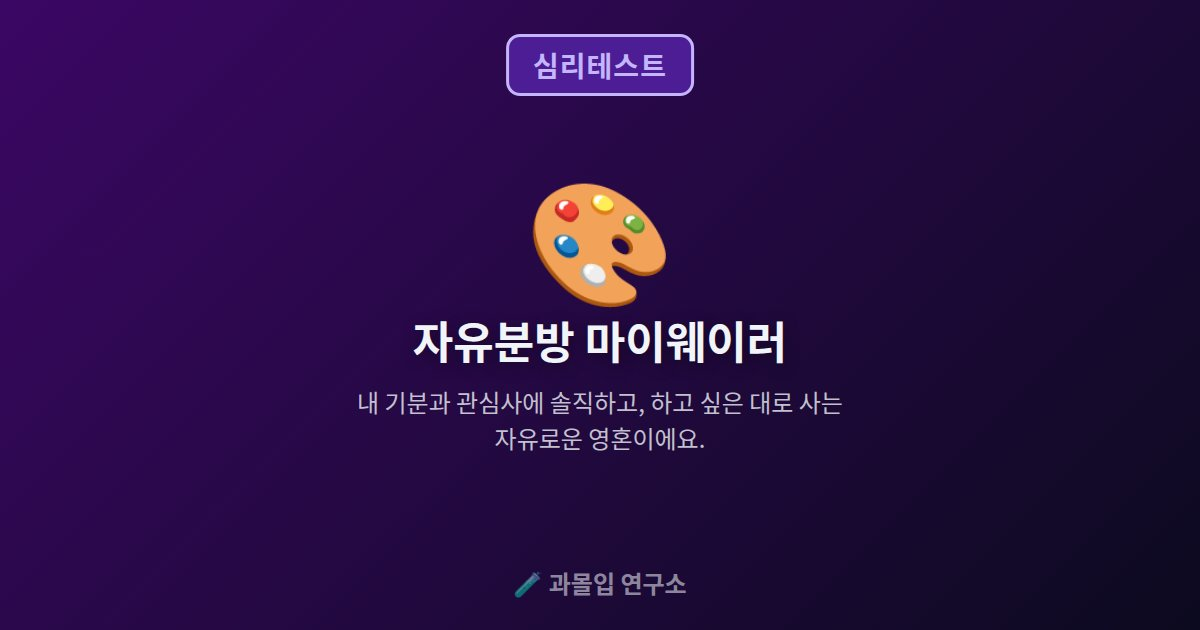
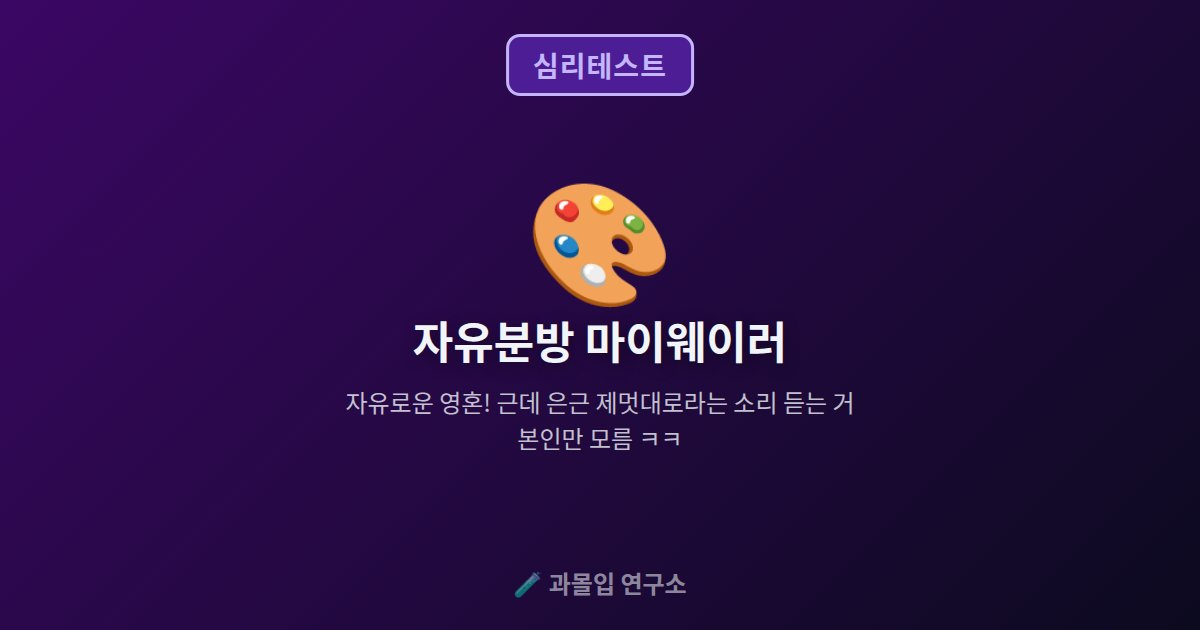
feat: 밸런스게임/국민테스트 콘텐츠 확장 — 어그로/댓글논쟁형으로 디벨롭 (v0.3.1)
밸런스게임 1개(가짜 잠금 2개)→6개, 국민테스트 1개→3개 전부 실플레이 가능하게 확장.
전애인 SNS/데이트비용/워라밸/축의금/딩크족 등 실제 논쟁형 밸런스게임과
민초vs반민초/부먹vs찍먹 등 국민 논쟁 소재 신규 작성, 혈액형 테스트 톤도
티키타카+댓글유도형으로 재작성. 카테고리당 1개만 보여주던 렌더링 로직을
전체 순회로 변경하고 공유 이미지 신규 생성.

Changed region(s): [[0.2775, 0.6032, 0.7092, 0.7238]]

diff --git a/data.js b/data.js
@@ -4433,7 +4433,7 @@ window.AppData = {
       emoji: "🩸",
       estMinutes: 1,
       tags: ["국민테스트", "혈액형", "MBTI 원조격"],
-      hook: "MBTI 유행 전에는 다들 이걸로 성격 얘기했다는 전설의 그 테스트 🩸 내 혈액형, 성격이 진짜 맞는지 확인해봐",
+      hook: "MBTI 유행 전에는 다들 이걸로 성격 얘기했다는 전설의 그 테스트 🩸 과학적 근거는 1도 없는데 이상하게 계속 맞아떨어진다는 국룰, 당신 혈액형 진짜 이 성격 맞아?",
       questions: [
         { q: "당신의 혈액형은?", options: [["A형", 0], ["B형", 1], ["O형", 2], ["AB형", 3]] }
       ],
@@ -4441,30 +4441,122 @@ window.AppData = {
         {
           grade: "A", range: [0, 0],
           emoji: "📋", title: "완벽주의 계획러",
-          desc: "섬세하고 신중해서 뭐든 완벽하게 해내야 직성이 풀리는 타입이에요.",
-          detail: "A형은 계획 없이 움직이는 걸 불안해하고, 맡은 일은 끝까지 책임지는 성실함이 강점이에요. 다만 스스로에게 너무 엄격해지지 않는 것도 중요해요.",
-          tips: ["가끔은 대충 넘어가도 괜찮다는 걸 스스로에게 알려주세요", "꼼꼼함은 최고의 신뢰 자산이에요", "완벽하지 않아도 이미 충분히 잘하고 있어요"]
+          desc: "계획 없이는 못 사는 타입! 근데 은근 뒤에서 다 계산하고 있는 거 국룰이잖아 ㅋㅋ",
+          detail: "A형은 매사에 신중하고 완벽을 추구하느라 스스로를 극한으로 몰아붙이는 편이에요. 겉으론 여유로워 보여도 속으로는 이미 시뮬레이션 10번은 돌렸을 타입이죠. 근데 이 성격, 진짜 A형만의 특징 맞아요 아니면 그냥 개인 성격 탓일까요?",
+          tips: ["완벽 안 해도 이미 잘하고 있다는 거 알아두기", "가끔은 계획 없는 무계획 여행도 추천", "당신 주변 A형은 진짜 이래요? 댓글로 검증하고 가기 👀"]
         },
         {
           grade: "B", range: [1, 1],
           emoji: "🎨", title: "자유분방 마이웨이러",
-          desc: "내 기분과 관심사에 솔직하고, 하고 싶은 대로 사는 자유로운 영혼이에요.",
-          detail: "B형은 틀에 얽매이지 않고 자기만의 방식을 밀고 나가는 힘이 있어요. 예측 불가능한 매력으로 주변을 심심하지 않게 만드는 타입입니다.",
-          tips: ["자유로움은 당신의 매력, 눈치 보지 말고 계속 밀고 나가세요", "가끔은 상대의 페이스도 한 번씩 맞춰보세요", "즉흥적인 아이디어를 실행하는 힘을 살려보세요"]
+          desc: "자유로운 영혼! 근데 은근 제멋대로라는 소리 듣는 거 본인만 모름 ㅋㅋ",
+          detail: "B형은 자기 확신이 강하고 하고 싶은 대로 밀어붙이는 힘이 있어요. 예측 불가능해서 주변을 심심하지 않게 만들지만, 가끔은 그 자유분방함이 '내 맘대로'로 보일 때도 있다는 거... 인정하시나요?",
+          tips: ["자유로움은 매력, 근데 가끔은 남 얘기도 들어보기", "예측불가 매력 계속 밀고 나가도 좋음", "B형은 다 이렇다는 거 진짜? 댓글에서 반박 시작 ㄱㄱ"]
         },
         {
           grade: "C", range: [2, 2],
           emoji: "☀", title: "타고난 분위기 메이커",
-          desc: "어디서든 리더십을 발휘하고 사람들과 잘 어울리는 사교왕 타입이에요.",
-          detail: "O형은 목표 지향적이고 사람을 이끄는 힘이 자연스럽게 나와요. 주변에 사람이 끊이지 않는 인맥 부자일 가능성이 높습니다.",
-          tips: ["당신의 리더십은 팀 전체의 자산이에요", "가끔은 한 발 물러서서 다른 사람 얘기도 들어보세요", "넓은 인맥을 깊은 관계로 발전시켜보는 것도 좋아요"]
+          desc: "타고난 인싸 리더! 근데 은근 승부욕 쩐다는 소리 듣는 거 알죠?",
+          detail: "O형은 목표지향적이고 사람을 이끄는 힘이 자연스럽게 나와요. 주변에 늘 사람이 많고 분위기 메이커 역할을 도맡아 하지만, 승부욕이 은근 강해서 지는 걸 못 참는다는 얘기도 많죠.",
+          tips: ["리더십은 무기, 가끔은 한발 물러서기도 필요", "승부욕은 좋은데 즐기면서 하기", "O형=인싸 국룰 진짜 맞아? 댓글로 인증하고 가기"]
         },
         {
           grade: "D", range: [3, 3],
           emoji: "🌌", title: "4차원 천재형",
-          desc: "남들과 다른 시선으로 세상을 보는, 예측불가 매력의 소유자예요.",
-          detail: "AB형은 이성과 감성을 오가는 독특한 사고방식을 가져서 종종 '4차원'이라는 소리를 들어요. 창의적인 아이디어가 필요한 순간에 진가를 발휘하는 타입입니다.",
-          tips: ["독특한 발상은 당신만의 강점, 자신 있게 표현해보세요", "가끔 오해받을 땐 설명을 조금 더 덧붙여보세요", "혼자만의 세계와 사람들과의 교류, 둘 다 챙겨보세요"]
+          desc: "4차원 그 자체! 근데 은근 그게 매력이라는 거 본인도 알죠?",
+          detail: "AB형은 이성과 감성을 넘나드는 독특한 사고방식 때문에 종종 '4차원'이란 소리를 들어요. 남들과 다른 시선이 가끔 오해를 사기도 하지만, 그 독특함이 결정적인 순간엔 최고의 무기가 되죠.",
+          tips: ["독특한 발상, 자신 있게 표현해도 됨", "오해받을 땐 설명 조금 더 붙이기", "AB형=4차원 국룰, 진짜인지 댓글로 검증하고 가기"]
+        }
+      ]
+    },
+    {
+      id: "mintchoco",
+      category: "national",
+      title: "민초 vs 반민초 테스트",
+      emoji: "🍫",
+      estMinutes: 1,
+      tags: ["국민테스트", "민트초코", "국룰논쟁"],
+      hook: "민초냐 반민초냐, 이거 하나로 밥친구 손절했다는 썰까지 있는 그 전설의 국민 논쟁 🍫🌿 너는 어느 진영이야? 5문항으로 소속과 강도까지 측정 가자",
+      questions: [
+        { q: "치약 맛 아이스크림이라는 소리 들으면?", options: [["오히려 좋아, 그 청량함이 매력임", 0], ["호불호는 이해하지만 나는 좋아함", 1], ["그니까 그게 문제라는 거임", 2]] },
+        { q: "카페 메뉴에 민트초코 라떼가 있으면?", options: [["무조건 시킨다", 0], ["다른 메뉴 없으면 시킨다", 1], ["시키느니 아메리카노 마신다", 2]] },
+        { q: "민초 싫어하는 사람을 보면 드는 생각은?", options: [["이해가 안 됨, 취향 존중은 하지만 아쉬움", 0], ["그럴 수도 있지, 사람마다 다르니까", 1], ["당연하지, 나도 그쪽임 ㅋㅋ", 2]] },
+        { q: "치약으로 양치할 때 드는 생각은?", options: [["이 맛이 은근 좋다", 0], ["그냥 씻는 용도로만 생각한다", 1], ["이 맛 진짜 별로다, 반민초인 이유 중 하나", 2]] },
+        { q: "친구가 민초 아이스크림을 나눠준다면?", options: [["신나서 받아먹는다", 0], ["예의상 한 입만 먹어본다", 1], ["정중히 거절한다", 2]] }
+      ],
+      results: [
+        {
+          grade: "A", range: [0, 2],
+          emoji: "🍫", title: "찐민초 전도사",
+          desc: "민트초코계의 선교사! 반민초를 개종시키는 게 삶의 낙인 타입이에요.",
+          detail: "민초 얘기만 나오면 눈이 반짝이는 진성 민초파예요. 치약맛이라는 놀림에도 흔들리지 않고, 오히려 그 청량함을 전도하려는 사명감까지 있는 타입이죠.",
+          tips: ["반민초 친구한테 한 입만 강요는 금물, 존중은 필수", "민초 신메뉴 나오면 제일 먼저 시식하는 편일 듯", "당신 진짜 민초파 맞아요? 댓글에서 반민초파랑 붙어보기 🍫🌿"]
+        },
+        {
+          grade: "B", range: [3, 5],
+          emoji: "🍧", title: "민초 온건파",
+          desc: "민초는 좋아하지만 광신도까지는 아닌, 평화로운 민초파예요.",
+          detail: "민초를 즐기긴 하지만 남에게 강요하진 않는 온건한 타입이에요. 반민초파와도 웃으면서 대화가 가능한, 국민 논쟁계의 평화주의자죠.",
+          tips: ["가끔은 확실하게 민초파라고 선언해도 괜찮아요", "온건함이 매력이지만 취향은 당당하게 표현하기", "당신은 어느 쪽에 가까운지 댓글로 투표하고 가기"]
+        },
+        {
+          grade: "C", range: [6, 7],
+          emoji: "🍪", title: "반민초 온건파",
+          desc: "민초는 안 땡기지만 굳이 싸우고 싶지도 않은 조용한 반민초파예요.",
+          detail: "치약 맛 논란에는 은근히 공감하지만, 굳이 나서서 민초파를 공격하진 않는 평화로운 타입이에요. 초코 자체는 좋아하지만 민트만 안 맞는 케이스가 많죠.",
+          tips: ["민초 없는 초코 디저트로도 충분히 행복할 수 있어요", "굳이 논쟁에 참전 안 해도 이미 반민초 인정받는 중", "당신의 진짜 강도, 댓글로 인증하고 가기"]
+        },
+        {
+          grade: "D", range: [8, 10],
+          emoji: "⚔", title: "반민초 전투종족",
+          desc: "민초 얘기만 나오면 참전하는 진성 반민초 전사! 치약맛 반박은 못 참죠.",
+          detail: "민트초코를 향한 저항 정신이 투철한 타입이에요. 민초파의 '청량하다'는 말에 절대 동의 못하고, 치약 비유는 진리라고 믿는 전투력 만렙 반민초파죠.",
+          tips: ["논쟁은 즐기되 사이는 좋게, 결국 취향 차이일 뿐", "가끔은 못 이기는 척 한 입 정도는 시도해봐도 재밌어요", "찐 반민초 인정? 댓글에서 민초파랑 끝장 토론 가자 ⚔"]
+        }
+      ]
+    },
+    {
+      id: "dipwar",
+      category: "national",
+      title: "부먹 vs 찍먹 테스트",
+      emoji: "🍖",
+      estMinutes: 1,
+      tags: ["국민테스트", "부먹찍먹", "국룰논쟁"],
+      hook: "탕수육 시키면 무조건 싸우게 되는 그 전설의 논쟁, 부먹이냐 찍먹이냐 🥢 5문항으로 당신의 진영과 강도를 측정 가자",
+      questions: [
+        { q: "탕수육이 나오면 소스는?", options: [["무조건 부어서 먹는다", 0], ["일단 부어보고 상황 봐서 남는 건 찍먹", 1], ["소스는 무조건 옆에 따로 둔다", 2]] },
+        { q: "바삭한 튀김옷이 소스에 눅눅해지는 거에 대한 생각은?", options: [["그것도 나름의 맛, 부먹이 진짜다", 0], ["약간 아쉽지만 참을 수 있다", 1], ["절대 못 참는다, 그래서 찍먹임", 2]] },
+        { q: "친구가 부먹 vs 찍먹으로 싸우면 나는?", options: [["당연히 부먹 편 든다", 0], ["둘 다 이해는 하는데 살짝 부먹 쪽", 1], ["무조건 찍먹 손 들어준다", 2]] },
+        { q: "탕수육 시킬 때 가장 신경 쓰는 부분은?", options: [["소스 양이 충분한지", 0], ["적당히 알아서 조절되면 됨", 1], ["소스와 튀김이 확실히 분리돼 있는지", 2]] },
+        { q: "짜장면도 그릇 비벼먹기 vs 소스 따로 찍먹처럼 먹기, 이걸 적용한다면?", options: [["당연히 다 비벼먹는 게 국룰", 0], ["상황 따라 다르게 먹음", 1], ["따로 담아서 각자 먹는 걸 선호", 2]] }
+      ],
+      results: [
+        {
+          grade: "A", range: [0, 2],
+          emoji: "🥣", title: "찐부먹 신봉자",
+          desc: "탕수육은 부먹이 국룰이라 믿는 진성 부먹파! 소스는 무조건 부어야 제맛이죠.",
+          detail: "소스가 튀김옷에 스며든 그 맛이야말로 탕수육의 정수라고 믿는 타입이에요. 찍먹파의 '바삭함이 생명'이라는 주장에는 눈 하나 깜짝 안 하는 확고한 부먹파죠.",
+          tips: ["같이 먹을 땐 절반은 부먹으로 양보 없이 밀고 나가기", "부먹 특유의 소스 맛, 자신 있게 즐기기", "찐 부먹파 인정? 댓글에서 찍먹파랑 한판 붙어보기 🥣"]
+        },
+        {
+          grade: "B", range: [3, 5],
+          emoji: "🍚", title: "부먹 온건파",
+          desc: "부먹을 선호하지만 찍먹도 이해는 하는 평화로운 타입이에요.",
+          detail: "기본은 부먹이지만 튀김이 유독 바삭하게 나온 날은 찍먹도 시도해보는 유연한 타입이에요. 논쟁보다는 맛있게 먹는 게 우선인 실속파죠.",
+          tips: ["가끔은 반반씩 시켜서 둘 다 즐겨보기", "온건파도 취향은 확실하게, 부먹이라고 당당히 말하기", "당신은 어느 쪽에 더 가까운지 댓글로 투표하기"]
+        },
+        {
+          grade: "C", range: [6, 7],
+          emoji: "🍥", title: "찍먹 온건파",
+          desc: "찍먹이 좋지만 부먹러랑 싸우고 싶진 않은 조용한 타입이에요.",
+          detail: "바삭함을 좋아하지만 부먹파의 취향도 나름 존중하는 편이에요. 다만 속으로는 '그래도 찍먹이 낫지'라는 생각을 은근히 품고 있는 타입이죠.",
+          tips: ["바삭함 사랑, 조금 더 당당하게 표현해도 좋아요", "굳이 논쟁 안 해도 이미 찍먹파로 인정받는 중", "진짜 강도, 댓글로 인증하고 가기"]
+        },
+        {
+          grade: "D", range: [8, 10],
+          emoji: "🗡", title: "찍먹 근본주의자",
+          desc: "바삭함은 생명! 부먹은 절대 용납 못하는 찍먹 수호자예요.",
+          detail: "튀김의 바삭함이야말로 탕수육의 본질이라 믿는 타입이에요. 소스를 붓는 순간 그 요리는 끝났다고 생각할 정도로 확고한 찍먹 근본주의자죠.",
+          tips: ["논쟁은 즐기되 결국 취향 차이라는 것도 인정하기", "가끔은 못 이기는 척 부먹도 한 입 시도해보기", "찐 찍먹파 인정? 댓글에서 부먹파랑 끝장 토론 가자 🗡"]
         }
       ]
     }
@@ -4485,6 +4577,61 @@ window.AppData = {
       optionA: { label: "평생 안 아프기", emoji: "💪", resultText: "건강이 최고! 몸 튼튼하면 뭐든 할 수 있다는 파네요." },
       optionB: { label: "지금 10억 받기", emoji: "💰", resultText: "일단 현금이 최고! 아프면 그 돈으로 치료받으면 된다는 현실파네요." },
       dummySplitA: 46
+    },
+    {
+      id: "exfollow",
+      title: "전 애인 SNS, 칼차단 vs 그냥 팔로우 유지",
+      emoji: "💔",
+      estMinutes: 1,
+      tags: ["밸런스게임", "연애가치관", "전애인"],
+      hook: "차단 안 하면 미련 있는 거 아니냐는 친구 vs 그게 왜 미련이냐는 나. 스토리 하나로 싸움 나는 그 얘기, 당신의 선택은? 👀",
+      optionA: { label: "칼같이 차단", emoji: "🚫", resultText: "쿨하게 정리! 과거에 발목 안 잡히는 스타일이네요." },
+      optionB: { label: "그냥 팔로우 유지", emoji: "👀", resultText: "이별해도 인연은 인연! 쿨함의 기준이 다른 스타일이네요." },
+      dummySplitA: 58
+    },
+    {
+      id: "datesplit",
+      title: "데이트 비용, 매번 칼같이 반반 vs 번갈아 통 크게",
+      emoji: "🧾",
+      estMinutes: 1,
+      tags: ["밸런스게임", "연애가치관", "데이트비용"],
+      hook: "정산 앱 켜고 1원 단위로 나누는 거 답답하다는 사람 vs 그게 제일 깔끔하고 공평하다는 사람. 데이트 비용 얘기만 나오면 다들 할 말 많던데 😤",
+      optionA: { label: "매번 반반 정산", emoji: "🧮", resultText: "칼같은 공정파! 뒤끝 없는 관계를 선호하는 스타일이네요." },
+      optionB: { label: "번갈아 한 사람이 통 크게", emoji: "💳", resultText: "화끈한 배포파! 정산보다 분위기를 더 중요하게 생각하는 스타일이네요." },
+      dummySplitA: 62
+    },
+    {
+      id: "worklife",
+      title: "칼퇴 보장 저연봉 vs 야근 많아도 고연봉",
+      emoji: "💼",
+      estMinutes: 1,
+      tags: ["밸런스게임", "워라밸", "연봉"],
+      hook: "저녁 있는 삶이냐, 통장 잔고냐... 회사 얘기만 나오면 다들 목소리 커지는 그 논쟁 💼 당신의 선택은?",
+      optionA: { label: "칼퇴 보장 저연봉", emoji: "🌆", resultText: "워라밸 최우선파! 저녁이 있는 삶이 진짜 행복이라는 거죠." },
+      optionB: { label: "야근 많아도 고연봉", emoji: "💵", resultText: "커리어·머니 우선파! 지금 고생이 나중의 자유를 만든다는 거죠." },
+      dummySplitA: 71
+    },
+    {
+      id: "weddingmoney",
+      title: "결혼식 축의금, 낸 만큼 딱 받기 vs 형편껏 내기",
+      emoji: "🧧",
+      estMinutes: 1,
+      tags: ["밸런스게임", "축의금", "국룰논쟁"],
+      hook: "축의금 5만원 냈다가 밥값도 안 나온다는 썰부터, 그거 계산하는 것 자체가 없어 보인다는 반박까지. 국룰이 뭔지 한번 따져보자 🧧",
+      optionA: { label: "낸 만큼 딱 받아야", emoji: "🧮", resultText: "정확한 게 최고! 서로 부담 없는 게 진짜 배려라는 파네요." },
+      optionB: { label: "형편껏 알아서 내면 됨", emoji: "🤝", resultText: "마음이 먼저! 축하하는 자리에서 계산은 넣어두자는 파네요." },
+      dummySplitA: 54
+    },
+    {
+      id: "dinkvskids",
+      title: "딩크(무자식) 인생 vs 자식 있어야 완성되는 인생",
+      emoji: "👶",
+      estMinutes: 1,
+      tags: ["밸런스게임", "결혼관", "딩크족"],
+      hook: "아이 없이도 인생 충분하다는 딩크족 vs 자식 낳아봐야 진짜 어른 된다는 사람들. 결혼관 얘기만 나오면 늘 팽팽한 그 주제 👶",
+      optionA: { label: "딩크(무자식) 인생", emoji: "🥂", resultText: "내 인생 내가 설계! 둘만의 자유와 여유를 더 중요하게 생각하는 파네요." },
+      optionB: { label: "자식 있어야 완성", emoji: "👨👩👧", resultText: "가족이 최우선! 아이가 주는 의미를 더 크게 보는 파네요." },
+      dummySplitA: 48
     }
   ]
 };

diff --git a/app.js b/app.js
@@ -1,4 +1,4 @@
-/* v0.3.0 | 5-in-1 Dashboard SPA — app.js */
+/* v0.3.1 | 5-in-1 Dashboard SPA — app.js */
 
 /* ══════════════════════════════════════════════════
    전역 상태
@@ -4191,7 +4191,7 @@ const PSYCHTEST_LOCKED = {
   character: [{ emoji: '🏯', title: '나의 사극 빙의 테스트' }, { emoji: '🦹', title: '나의 빌런 각성 테스트' }],
   trait: [{ emoji: '🧊', title: 'T의 공감능력 테스트' }, { emoji: '💤', title: '관태기 자가진단 테스트' }],
   taste: [{ emoji: '🏪', title: '나의 편의점 소비 유형 테스트' }, { emoji: '📺', title: 'OTT 정주행 스타일 테스트' }],
-  national: [{ emoji: '⭐', title: '별자리 성격 테스트' }, { emoji: '🎂', title: '탄생월 성격 테스트' }],
+  national: [],
 };
 
 function initPsychtest() {
@@ -4210,7 +4210,10 @@ function renderPsychtestFeed(category) {
   category = category || 'trait';
   App.state.psychtest.category = category;
   const container = document.getElementById('psychtest-container');
-  const real = AppData.psychTests.find(x => x.category === category);
+  /* v0.3.1~: 카테고리당 진짜 콘텐츠가 여러 개(예: 국민테스트 3개)일 수 있어 첫 매칭 1개만 찾던 find()를
+     filter()로 바꿔 전부 노출 — 대표 배너는 그중 첫 번째를 사용 */
+  const reals = AppData.psychTests.filter(x => x.category === category);
+  const real = reals[0];
   const locked = PSYCHTEST_LOCKED[category] || [];
 
   const tabsHTML = Object.keys(PSYCHTEST_CATEGORIES).map(key => {
@@ -4238,12 +4241,12 @@ function renderPsychtestFeed(category) {
       </div>` : ''}
 
       <div class="grid grid-cols-2 sm:grid-cols-3 gap-3">
-        ${real ? `
-        <div class="bg-slate-800 border border-slate-700 rounded-2xl p-4 text-center cursor-pointer hover:border-violet-500 transition" onclick="psychtestOpenPost('${real.id}')">
-          <div class="text-3xl mb-2">${real.emoji}</div>
-          <p class="text-slate-100 font-semibold text-sm mb-1">${real.title}</p>
-          <p class="text-slate-500 text-xs">▷ ${engagementCount('psychtest-' + real.id + '-plays', 128)}</p>
-        </div>` : ''}
+        ${reals.map(t => `
+        <div class="bg-slate-800 border border-slate-700 rounded-2xl p-4 text-center cursor-pointer hover:border-violet-500 transition" onclick="psychtestOpenPost('${t.id}')">
+          <div class="text-3xl mb-2">${t.emoji}</div>
+          <p class="text-slate-100 font-semibold text-sm mb-1">${t.title}</p>
+          <p class="text-slate-500 text-xs">▷ ${engagementCount('psychtest-' + t.id + '-plays', 128)}</p>
+        </div>`).join('')}
         ${locked.map(c => `
           <div class="bg-slate-800/60 border border-slate-700 rounded-2xl p-4 text-center opacity-60 cursor-pointer" onclick="showToast('곧 만나요! 준비중인 콘텐츠예요 🙏')">
             <div class="text-3xl mb-2">${c.emoji}</div>
@@ -4379,28 +4382,20 @@ function initBalance() {
 
 function renderBalanceFeed() {
   const container = document.getElementById('balance-container');
-  const real = AppData.balanceGames[0];
-  const comingSoon = [
-    { emoji: '🏝', title: '무인도에 하나만 vs 아무것도 없이' },
-    { emoji: '⏰', title: '10년 일찍 태어나기 vs 10년 늦게 태어나기' },
-  ];
+  /* v0.3.1~: 예전엔 balanceGames[0] 하나만 진짜로 보여주고 나머지는 가짜 "준비중" 카드였는데,
+     콘텐츠를 6개로 늘리면서 전부 실제 플레이 가능한 카드로 노출 (잠금 placeholder 제거) */
   container.innerHTML = `
     <div class="max-w-2xl mx-auto">
       <h2 class="text-2xl font-black text-slate-100 mb-1">⚖ 밸런스 게임</h2>
       <p class="text-slate-400 mb-6">A vs B, 당신의 선택은?</p>
 
       <div class="grid grid-cols-2 sm:grid-cols-3 gap-3">
-        <div class="bg-slate-800 border border-slate-700 rounded-2xl p-4 text-center cursor-pointer hover:border-emerald-500 transition" onclick="balanceOpenPost('${real.id}')">
-          <div class="text-3xl mb-2">${real.emoji}</div>
-          <p class="text-slate-100 font-semibold text-sm mb-1">${real.title}</p>
-          <p class="text-slate-500 text-xs">▷ ${engagementCount('balance-' + real.id + '-plays', 203)}</p>
-        </div>
-        ${comingSoon.map(c => `
-          <div class="bg-slate-800/60 border border-slate-700 rounded-2xl p-4 text-center opacity-60 cursor-pointer" onclick="showToast('곧 만나요! 준비중인 콘텐츠예요 🙏')">
-            <div class="text-3xl mb-2">${c.emoji}</div>
-            <p class="text-slate-300 font-semibold text-sm mb-1">${c.title}</p>
-            <p class="text-slate-500 text-xs">🔒 준비중</p>
-          </div>`).join('')}
+        ${AppData.balanceGames.map(g => `
+        <div class="bg-slate-800 border border-slate-700 rounded-2xl p-4 text-center cursor-pointer hover:border-emerald-500 transition" onclick="balanceOpenPost('${g.id}')">
+          <div class="text-3xl mb-2">${g.emoji}</div>
+          <p class="text-slate-100 font-semibold text-sm mb-1">${g.title}</p>
+          <p class="text-slate-500 text-xs">▷ ${engagementCount('balance-' + g.id + '-plays', 203)}</p>
+        </div>`).join('')}
       </div>
     </div>`;
 }

diff --git a/index.html b/index.html
@@ -1,4 +1,4 @@
-<!-- v0.3.0 | 5-in-1 Dashboard SPA -->
+<!-- v0.3.1 | 5-in-1 Dashboard SPA -->
 <!DOCTYPE html>
 <html lang="ko">
 <head>
@@ -224,7 +224,7 @@
 
   <!-- 버전 -->
   <div class="px-5 py-4">
-    <p class="text-slate-600 text-xs">v0.3.0 · 2026-07-06</p>
+    <p class="text-slate-600 text-xs">v0.3.1 · 2026-07-06</p>
   </div>
 </aside>
 
